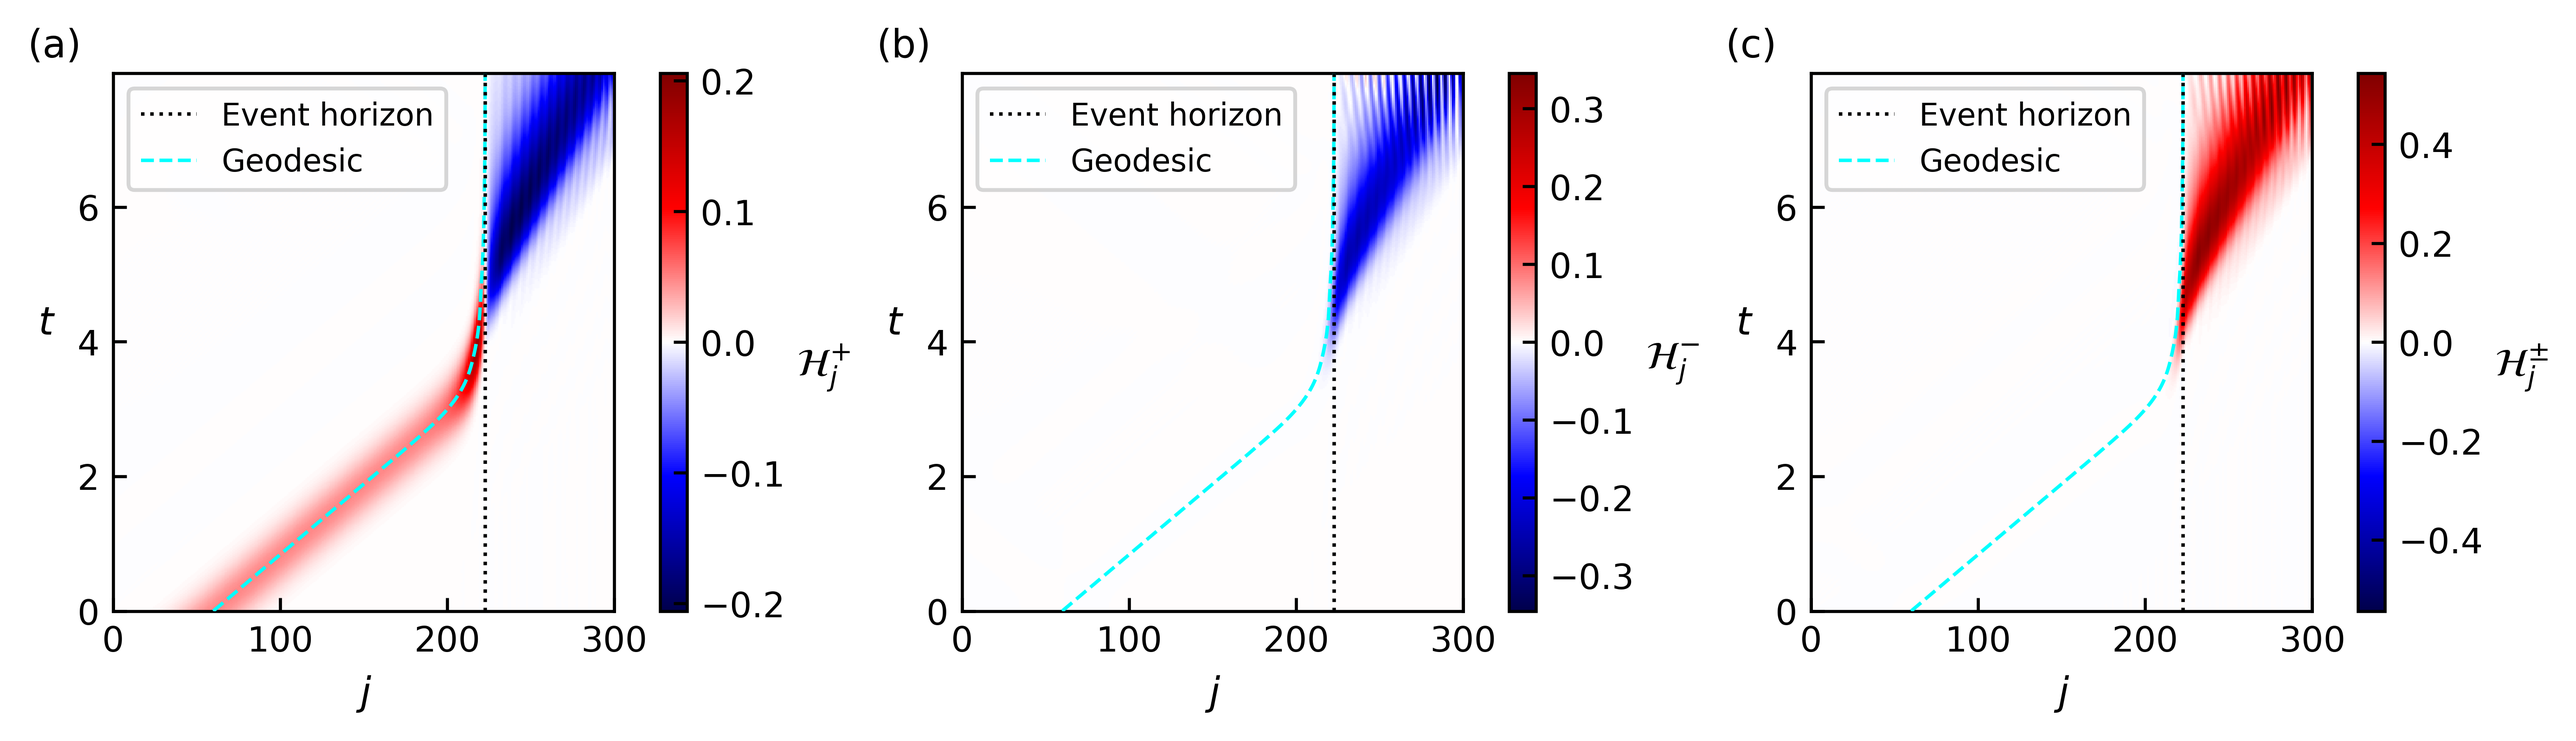
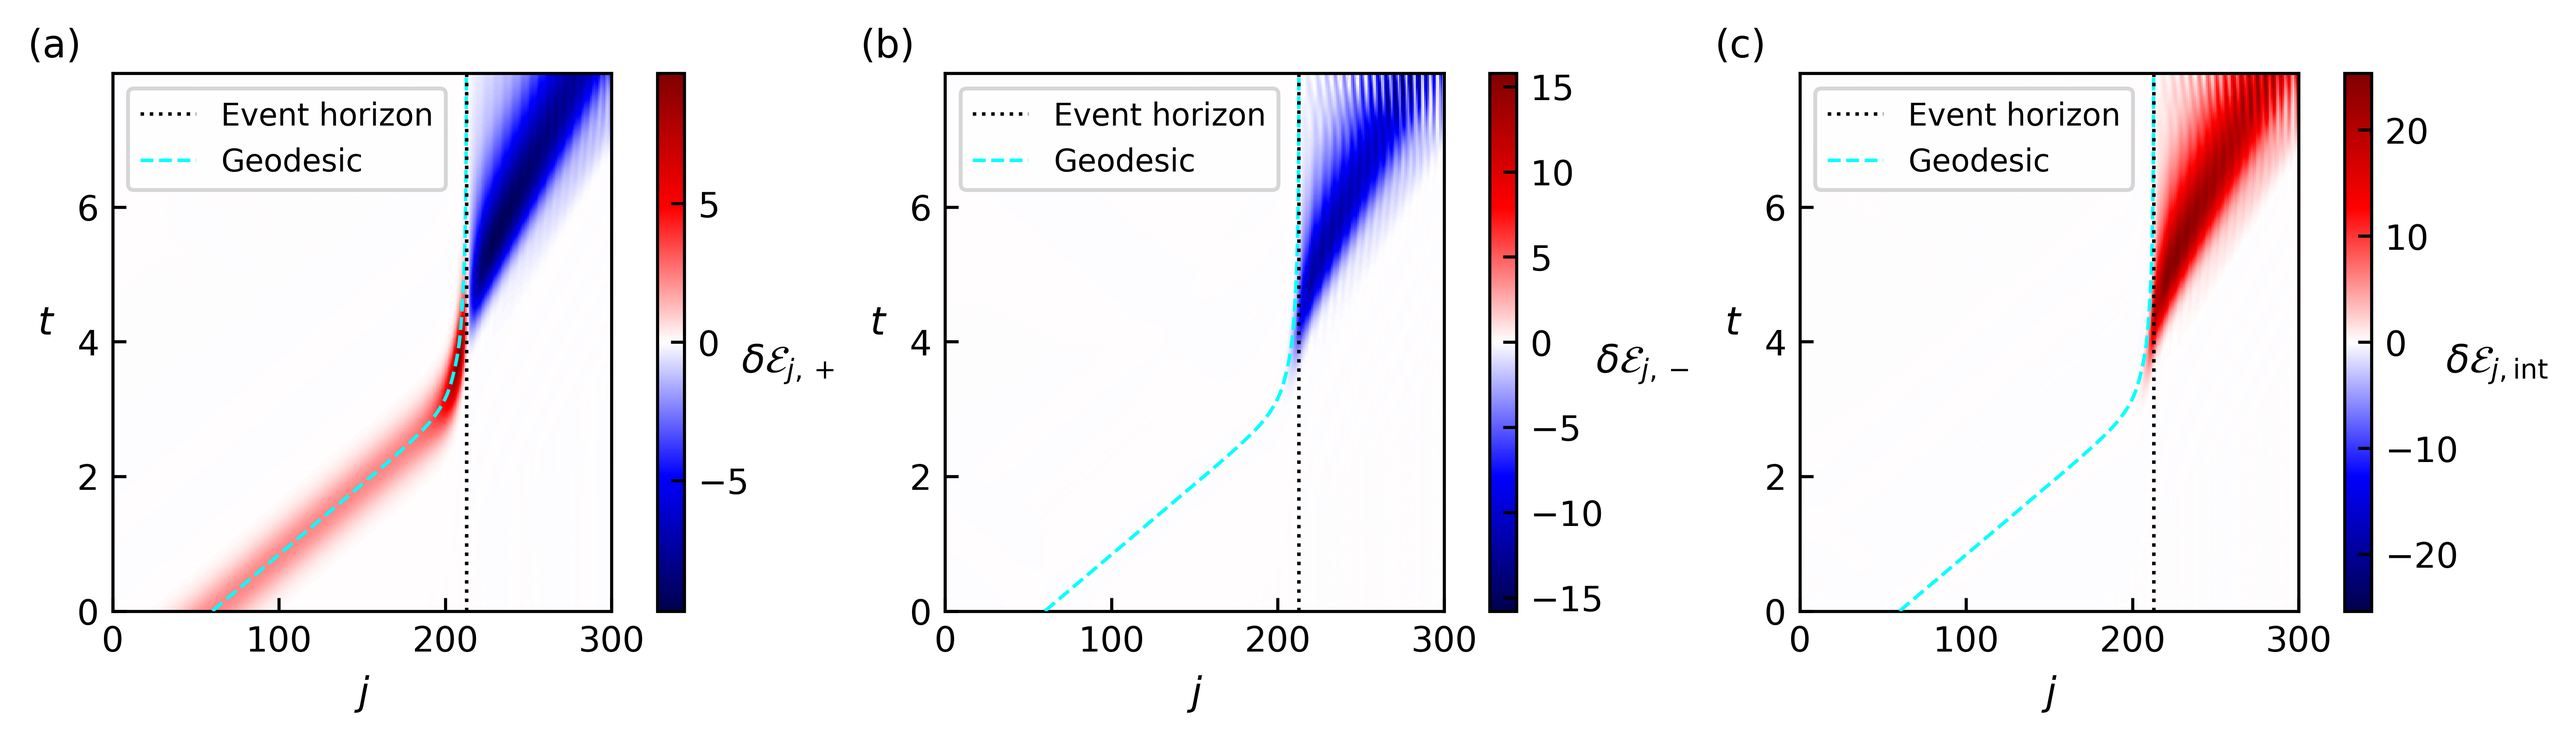
paper: regenerate figures with revised energy density

diff --git a/ENERGY_DENSITY_REVISION_PROGRESS.md b/ENERGY_DENSITY_REVISION_PROGRESS.md
@@ -136,16 +136,24 @@ by zero in the operator definition if `H = sum_j h_j` is to hold exactly.
 
 ## Phase 4: affected figures
 
-- [ ] Fig. 2: recalculate all four density panels.
-- [ ] Fig. 3: recalculate all four density panels.
-- [ ] Fig. 4(b): regenerate the FFT from the revised Fig. 3(a) data.
-- [ ] Fig. 5: recalculate widths and update both fitted errors.
-- [ ] Fig. 6(a): recalculate the white-hole density panel.
-- [ ] Fig. 6(b): separately decide whether to retain the current reference data
-      or remeasure `T_lat` with the revised density.
-- [ ] Fig. 7: recalculate all three density panels.
-- [ ] Confirm that Fig. 1 and Fig. 4(a) remain unchanged because they use the
-      homogeneous dispersion rather than local density data.
+- [x] Fig. 2: recalculate all four density panels.
+- [x] Fig. 3: recalculate all four density panels.
+- [x] Fig. 4(b): regenerate the FFT from the revised Fig. 3(a) data
+      (doubler peak `k_d = 1.1714` unchanged; FFT is normalized so the
+      `1/epsilon` rescaling cancels).
+- [x] Fig. 5: recalculate widths and update both fitted errors.
+      Revised: `kappa_fit(p=0) = 1.0332` (rel err 3.3%),
+      `kappa_fit(p=1) = 0.9514` (rel err 4.9%).
+      Old-density values were 1.0030 (0.3%) and 0.9036 (9.6%).
+- [x] Fig. 6(a): recalculate the white-hole density panel (`x0 = 2 ell/3`).
+- [x] Fig. 6(b): retained the digitized manuscript reference data unchanged;
+      no remeasurement performed (reference points are image-derived and not
+      affected by the density-operator normalization).
+- [x] Fig. 7: recalculate all three density panels (`x0 = 2 ell/3`).
+- [x] Confirm that Fig. 1 and Fig. 4(a) remain unchanged because they use the
+      homogeneous dispersion rather than local density data. `dispersion.png`
+      not regenerated; Fig. 4(a) re-rendered as part of the two-panel
+      `doubler_fft.png` with identical dispersion input.
 
 ## Phase 5: paper synchronization
 
@@ -190,4 +198,5 @@ comparisons pass.
 | 2026-07-23 | Rewrote `compute_vacuum_values()` with per-bond contractions `F1[b]`, `F2[b]` and the same link betas, endpoint rule, and `1/epsilon^2` normalization as the density operators | Full suite incl. new Fock-space tests (31 tests) | OK; commit `ab937b7` |
 | 2026-07-23 | Added `tests/test_energy_density.py`: full-Fock-space (Jordan-Wigner, L=6) comparison of the coded densities and vacuum values against literal Eqs. (41)-(43); sum rule `eps*sum_j H_j = H` incl. the onsite constant; left/right link betas; one-sided endpoints; Hermiticity; scaling invariance of center/width | `python -m unittest discover -s tests` (31 tests) | OK; commit `c96d753` |
 | 2026-07-23 | Figure-code notation: colorbars now show the vacuum-subtracted `delta E_{j,+/-}` and `delta E_{j,int}` (`H^{int}` replaces `H^{+-}`/`H^{pm}`); Fig. 6/7 white-hole runs switched to the manuscript profile `x0 = 2 ell/3` (`j_h ~ 212.81`); manifest tests and REPRODUCE.md updated | Full suite (31 tests) | OK; commit `1ee63c2` |
-| 2026-07-23 | Representative panels rerun with the revised density: FIG2c and FIG6a; old runs preserved as baselines | Comparison script (bulk ratio `1/eps`, conserved `eps*sum_j`, center/std/peak) | FIG2c: ratio 47.7465, integral 3.9395 conserved, center/std shifts <0.1 site. FIG6a: integral 1.79288 conserved, stagnation at `j_h~212.8` |
+| 2026-07-23 | Representative panels rerun with the revised density: FIG2c and FIG6a; old runs preserved as baselines | Comparison script (bulk ratio `1/eps`, conserved `eps*sum_j`, center/std/peak) | FIG2c: ratio 47.7465, integral 3.9395 conserved, center/std shifts <0.1 site. FIG6a: integral 1.79288 conserved, stagnation at `j_h~212.8`; commit `6b6db9f` |
+| 2026-07-23 | Full figure regeneration: FIG2a/b/d, FIG3a-d, FIG4(b), FIG5 (recomputed sigma data), FIG6 composite, FIG7; verified composites copied to `paper/figure/` (`p=0_BH.png`, `p=1_BH.png`, `WH_p=0.png`, `WH_p=1.png`, `sg.png`, `doubler_fft.png`) | Old/new comparisons per panel; visual inspection of FIG6/FIG7 | Trajectories/peaks unchanged (<0.5 site); `kappa_fit`: p=0 1.0332 (3.3%), p=1 0.9514 (4.9%) |
